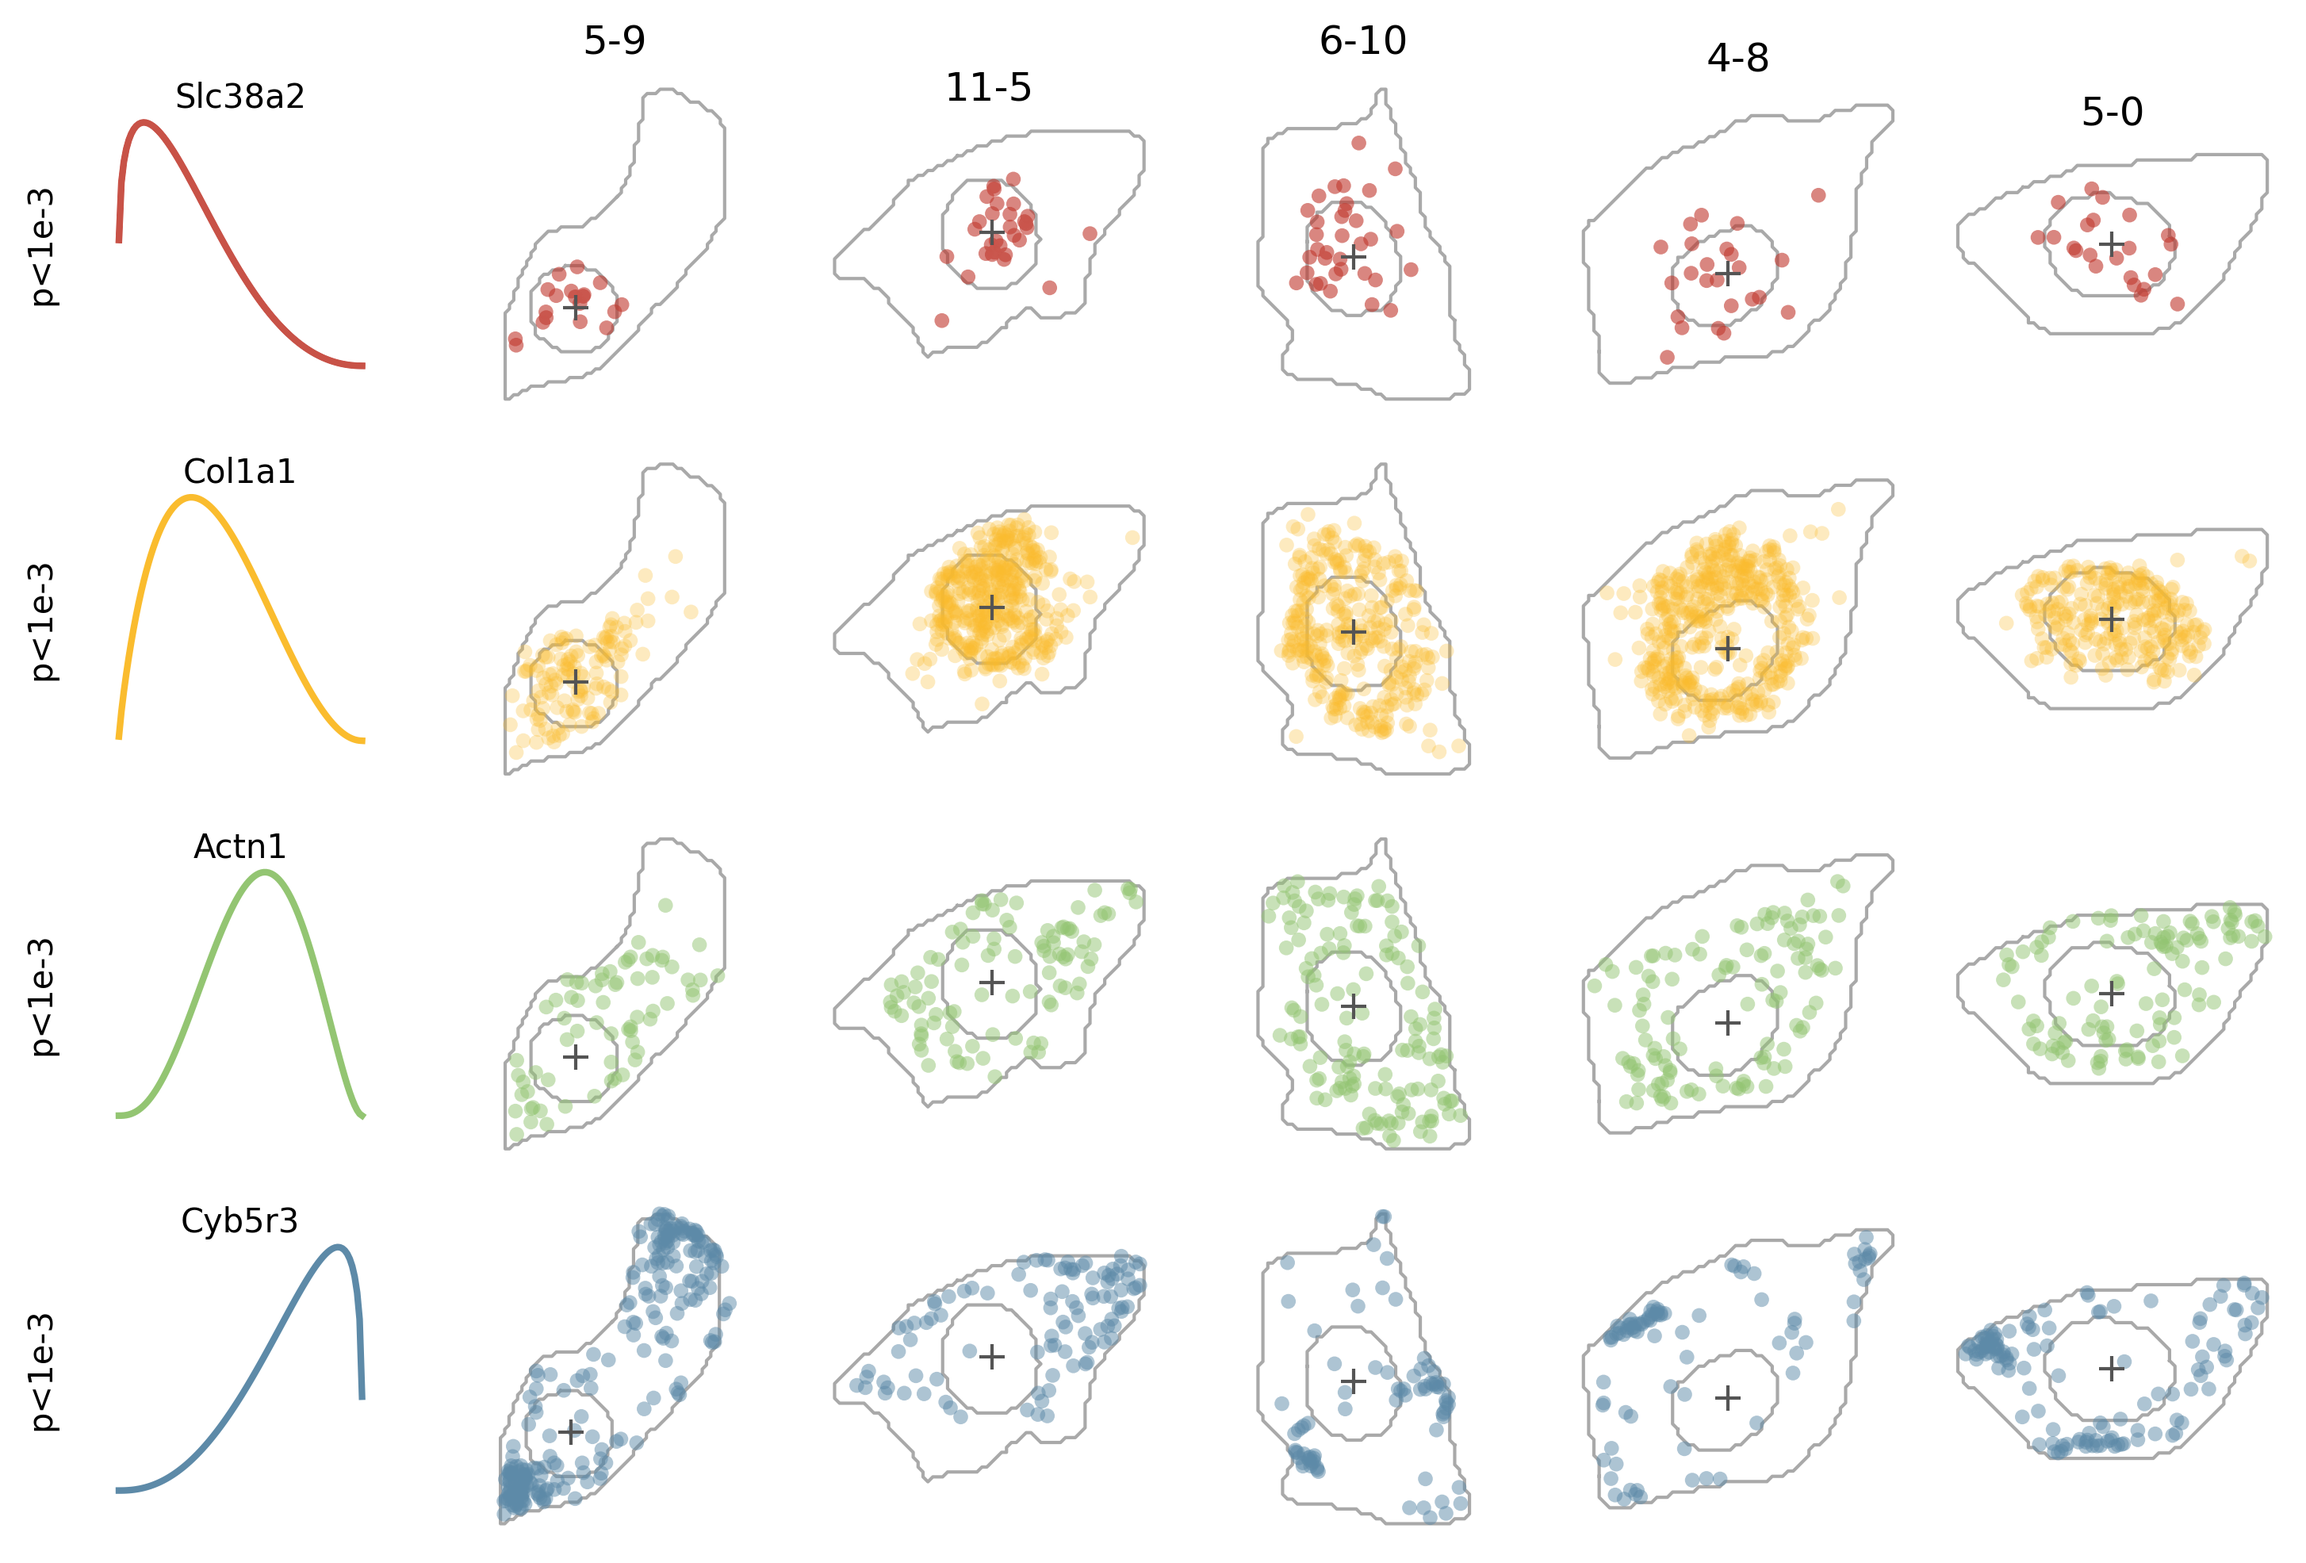
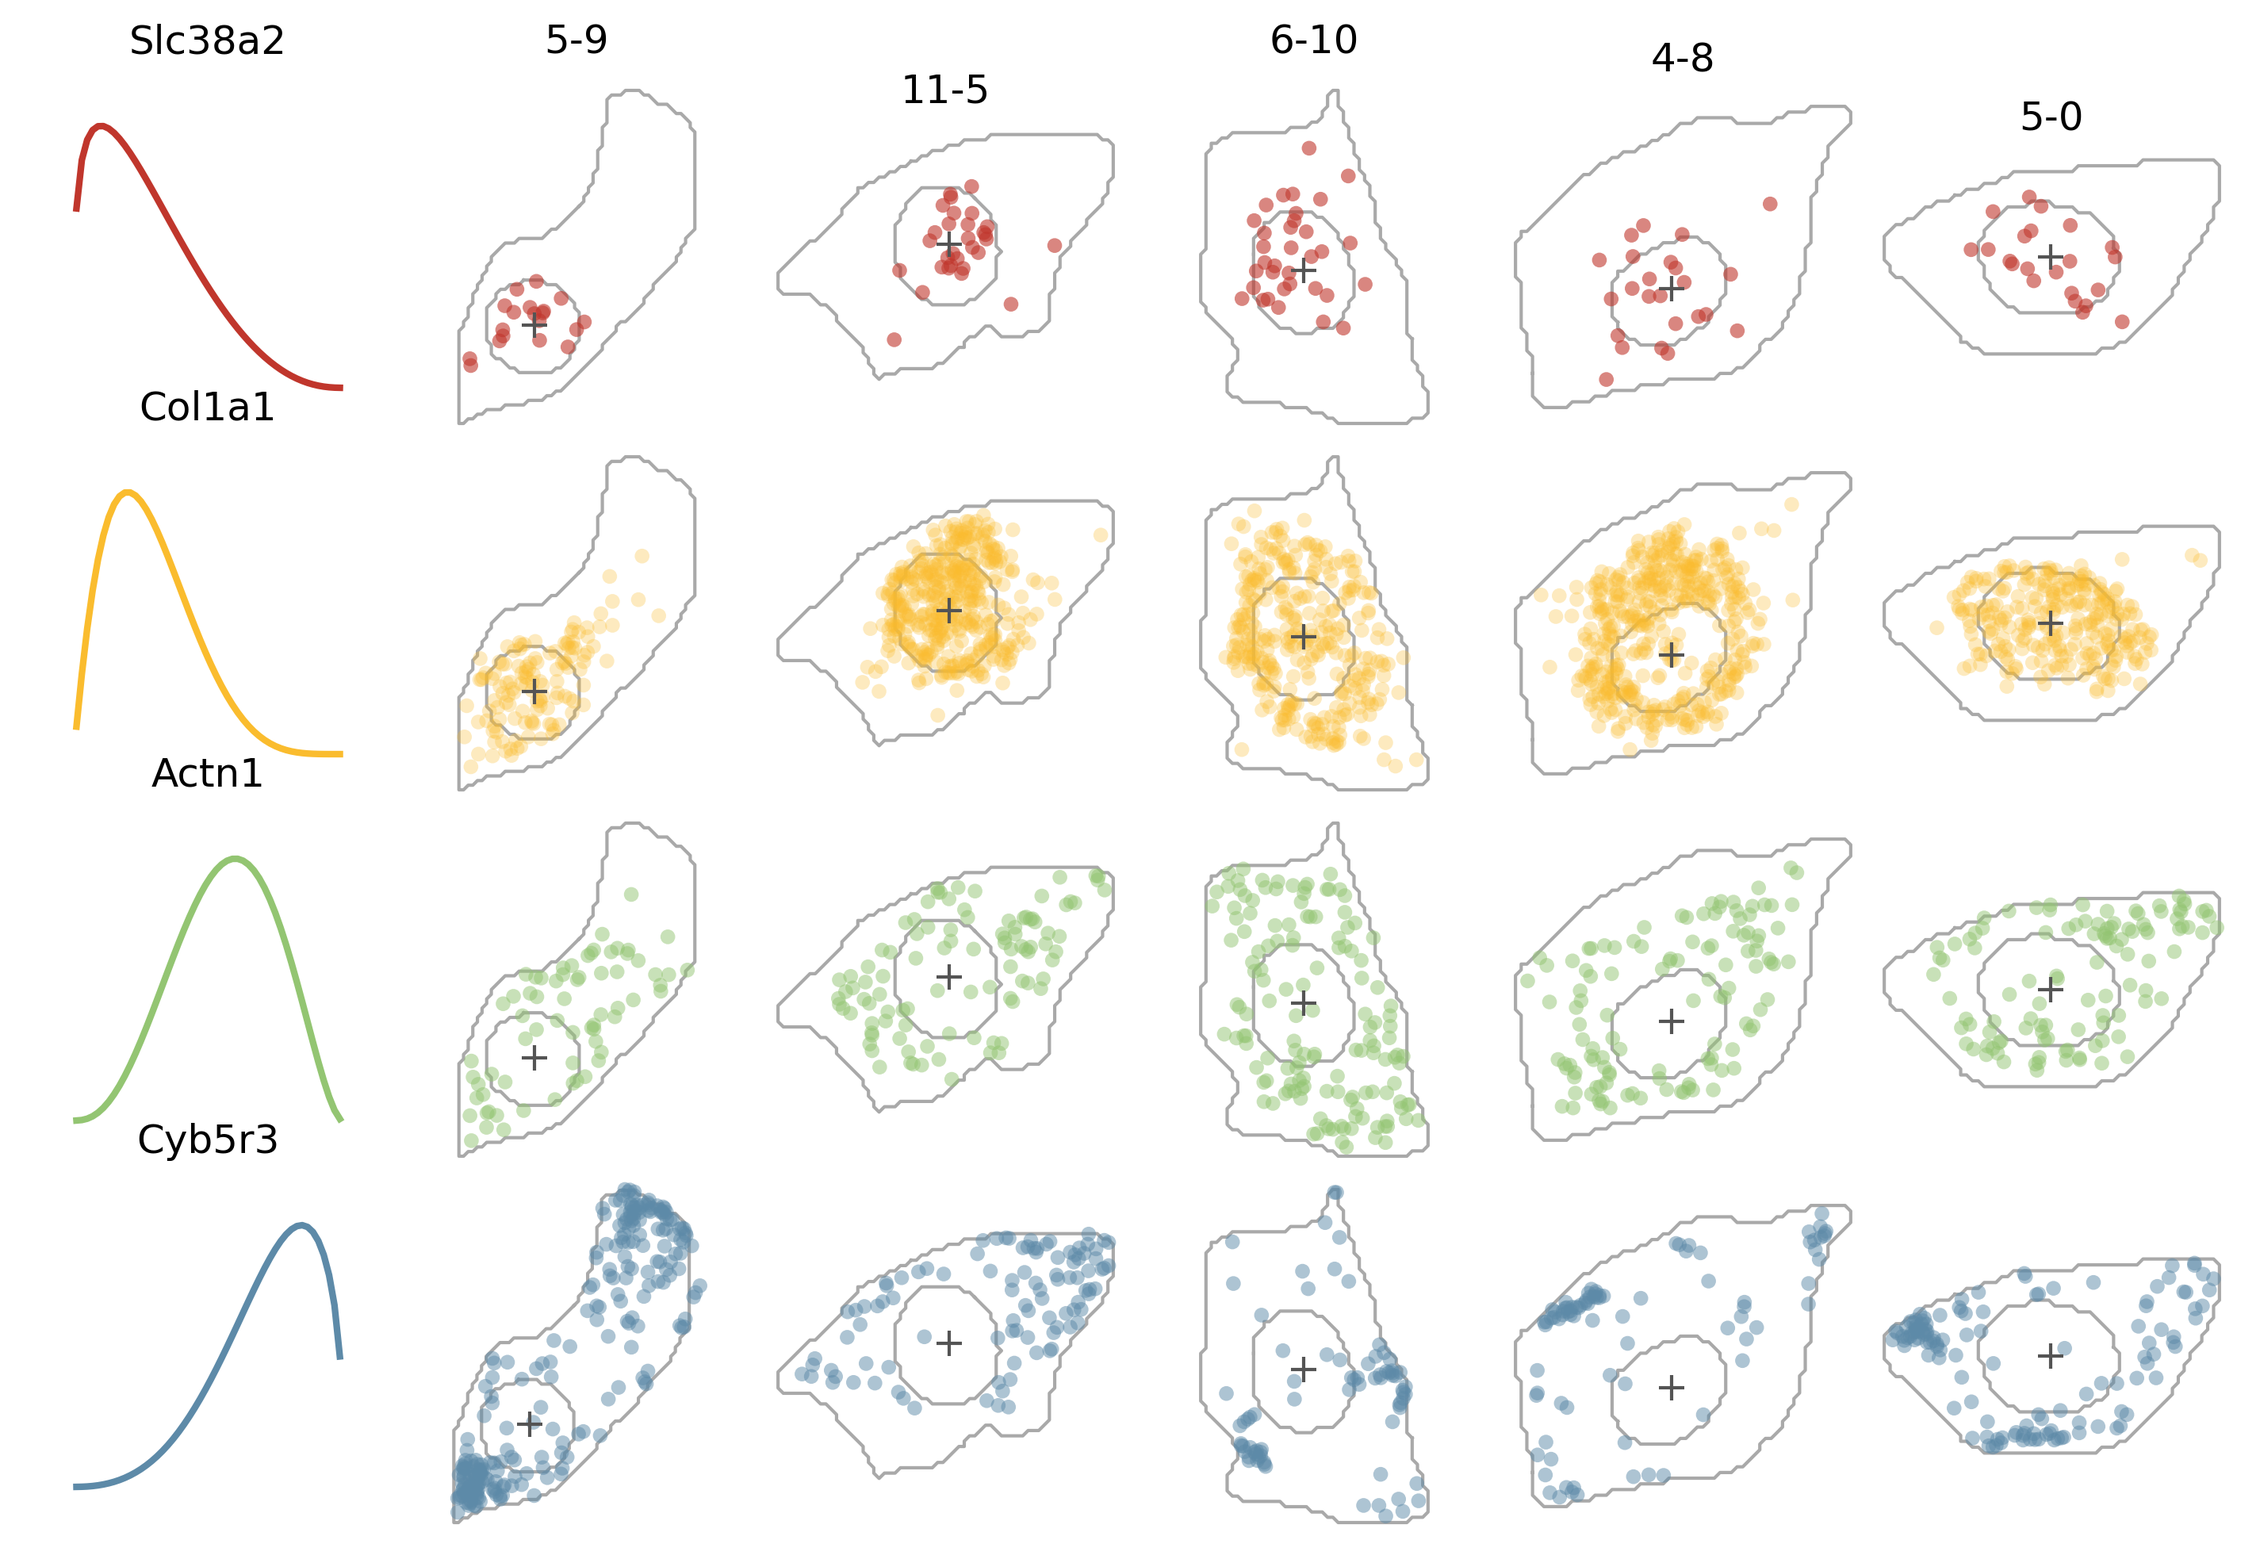
update docs

diff --git a/docs/ella_v1/mini_demo.md b/docs/ella_v1/mini_demo.md
@@ -1,13 +1,15 @@
 ---
 title: A Minimum Demo
 layout: default
+parent: ella_v1
 nav_order: 3
 ---
 
 ## A Minimum Demo
 
 <br>
-Here's a minimum demo to get started with ELLA.
+**Here's a minimum demo to get started with ELLA.**
+<br>
 <br>
 
 ### Install ELLA <br>
@@ -16,44 +18,55 @@ Install ELLA follows the steps in [Install ELLA]({{ site.baseurl }}/install.html
 The script and data that will be used in this demo should have already been downloaded (while cloning the ELLA repo). You should be able to find these at your local ELLA folder:
 ```
 ELLA/scripts/demo/mini_demo/
-├── lightning_logs
-│   └── run1
-├── log
-├── mini_demo_data.pkl
-├── prepared_data
-│   ├── cells_center.json
-│   ├── cells_point_infos.json
-│   ├── cells_polygon.json
-│   └── training_data.jsonl
-└── run1.sh
+├── input
+│   └── mini_demo_data.pkl
+├── output
+│   ├── df_nhpp_prepared.pkl
+│   ├── df_registered.pkl
+│   ├── lam_est.pkl
+│   ├── nhpp_fit_results.pkl
+│   └── pv_est.pkl
+└── mini_demo.ipynb
 ```
 The input data (`input/mini_demo_data.pkl`) mainly contains a dictionary of three dataframes corresponding to gene expression, cell segmentation, and nucleus segmentation (optional). The data contains 5 cells and 4 genes, and its details are explained in [ELLA's Inputs]({{ site.baseurl }}/inputs.html).
 
+The script of this demo is `mini_demo.ipynb`, you should be able to run it locally by yourself (run time around 2min) and you would expected the following steps and outputs:
 
-### ELLA Anlysis <br>
-**1.** We first process the input data. This step includes registering cells (computing relative positions) and restructuring the data for efficient cell-type and gene-level parallelization.
+3. ### ELLA Anlysis <br>
+Data pre-processing
 ```python
-python -m ella.data.prepare_data -i your_dir/mini_demo/mini_demo_data.pkl -o prepared_data
+# import ELLA
+from ELLA.ELLA import model_beta, model_null, loss_ll, ELLA
+ella_demo = ELLA(
+    dataset='demo1', 
+    adam_learning_rate_min=1e-2, 
+    max_iter=1000
+)
+# load data
+ella_demo.load_data(data_path='input/mini_demo_data.pkl')
+# register cells
+ella_demo.register_cells()
+# prepare data for model fitting
+ella_demo.nhpp_prepare() 
 ```
-The outputs including `cells_center.json`, `cells_point_infos.json`, `cells_polygon.json`, and `training_data.jsonl`.
-
-**2a.** We can run one gene on a local machine by first training a ELLA model based a recipe, e.g. configs/ella_run1.yaml
+Model fitting
 ```python
-ella-train --config-name debug
+# fit nhpp model
+ella_demo.nhpp_fit()
 ```
-followd by conduct estimation using
+Testing and estimation
 ```python
-ella-estimate -d lightning_logs/run1 -p "gene_0-kernel_.*" -b 10 -o your_dir/gene_0_estimation_result.json
+# expression intensity estimation
+ella_demo.weighted_density_est()
+# likelihood ratio test
+ella_demo.compute_pv()
 ```
-**2b.** We can run multiple genes in parallel with, for example, `run_demo1.sh` on computing clusters.
-
-
-### Check out ELLA's results <br>
+4. ### Check out ELLA's results <br>
 ```python
 import numpy as np
 import pandas as pd
 import matplotlib.pyplot as plt
-# import alphashape
+import alphashape
 # define colors
 red = '#c0362c'
 lightorange = '#fabc2e'
@@ -61,50 +74,50 @@ lightgreen = '#93c572'
 lightblue = '#5d8aa8'
 darkgray ='#545454'
 colors = [red, lightorange, lightgreen, lightblue]
-
+# cell IDs
+cells = ella_demo.cell_list_dict['fibroblast']
+# gene IDs
+genes = ella_demo.gene_list_dict['fibroblast']
+# FDR corrected p values
+pv = ella_demo.pv_fdr_tl['fibroblast']
+# estimated expression intensities
+lam = ella_demo.weighted_lam_est['fibroblast']
+# demo data
+demo_data = pd.read_pickle('input/demo_data.pkl')
+# cell segmentations
+cell_seg = demo_data['cell_seg']
+# nucleus segmentations
+nucleus_seg = demo_data['nucleus_seg']
+# gene expressions
+expr = demo_data['expr']
+```
+Plot the estimated expression intensities 
+```python
 nr = 1
-nc = 4
+nc = len(genes)
 ss_nr = 1.7
 ss_nc = 2
 fig = plt.figure(figsize=(nc*ss_nc, nr*ss_nr), dpi=300)
 gs = fig.add_gridspec(nr, nc,
-                   width_ratios=[1]*nc,
-                   height_ratios=[1]*nr)
+                      width_ratios=[1]*nc,
+                      height_ratios=[1]*nr)
 gs.update(wspace=0.3, hspace=0.5)
-
-p_cauchy = []
-# for i in range(gene_idx_start, gene_idx_end):
-for i, g in enumerate([3,0,2,1]):
-    path = f'{res_dir}/gene_{g}_estimation_result.json'
-    if os.path.exists(path):
-        with open(path, "r", encoding="utf-8") as f:
-            res = json.load(f)
-            gene_id = res['gene_id']
-            lam_est = res['lam_weighted']
-            p_cauchy.append(res['p_cauchy'])
-            
-            ax = plt.subplot(gs[0,i])
-            ax.set_title(gene_id)
-            lam_std = (lam_est-np.min(lam_est))/(np.max(lam_est)-np.min(lam_est))
-            ax.plot(np.linspace(0,1,len(lam_std)), lam_std, lw=2, color=colors[i])
-            ax.set_xticks([0,0.5,1], [0,0.5,1])
-            ax.set_yticks([0,0.5,1], [0,0.5,1])
-            ax.set_xlabel('Relative Position')
-            if i==0:
-                ax.set_ylabel('Expression Intensity')            
+for i, g in enumerate(genes):
+    ax = plt.subplot(gs[0,i])
+    pv_g = pv[i]
+    lam_g = lam[i]
+    lam_g_std = (lam_g-np.min(lam_g))/(np.max(lam_g)-np.min(lam_g))
+    ax.plot(np.linspace(0,1,len(lam_g_std)), lam_g_std, lw=2, color=colors[i])
+    ax.set_xticks([0,0.5,1], [0,0.5,1])
+    ax.set_yticks([0,0.5,1], [0,0.5,1])
+    ax.set_xlabel('Relative Position')
+    if i==0:
+        ax.set_ylabel('Expression Intensity')
+    if pv_g < 1e-3:
+        ax.set_title(f'{g}\np<1e-3')
+    else:
+        ax.set_title(f'{g}\np={pv_g:.3f}')
 ```
-Compute FDR-corrected P values
-```python
-reject, p_fdr, _, _ = multipletests(p_cauchy, alpha=0.05, method='fdr_by')
-print(np.sum(p_fdr<=0.05))
-print(p_fdr)
-```
-
-```text
-3
-[2.31296463e-16 0.00000000e+00 6.16790569e-16 1.00000000e+00]
-```
-
 <div style="margin: 0 auto; text-align: center;"> 
   <img src="{{ site.baseurl }}/images/demo_lam_est.png" width="600" />
 </div>	
@@ -113,22 +126,10 @@ Here *Slc38a2* looks like a nuclear localized genes as its estimated expression 
 More to plot:
 We can further plot the cells and genes to have a more intuitive sense of the localization patterns.
 ```python
-import alphashape
-
-# load intput data
-input_data = pd.read_pickle('/net/mulan/home/jadewang/revision/real_data/demo1/mini_demo_data.pkl')
-cell_type = 'fibroblast'
-genes = input_data['genes'][cell_type]
-cells = input_data['cells'][cell_type]
-expr = input_data['expr']
-cell_seg = input_data['cell_seg']
-nucleus_seg = input_data['nucleus_seg']
-
-# plot
 alphas = [0.6, 0.3, 0.5, 0.5]
 
 nr = len(genes)
-nc = len(cells)+1
+nc = len(cells)
 ss_nr = 2
 ss_nc = 2
 fig = plt.figure(figsize=(nc*ss_nc, nr*ss_nr), dpi=300)
@@ -137,25 +138,9 @@ gs = fig.add_gridspec(nr, nc,
                       height_ratios=[1]*nr)
 gs.update(wspace=0.0, hspace=0.0)
 
-for j, g in enumerate(genes):
-    for i, c in enumerate(cells):
-        if i==0:
-            ax = plt.subplot(gs[j,i])
-            lam_est = lam_ests[j]
-            lam_std = (lam_est-np.min(lam_est))/(np.max(lam_est)-np.min(lam_est)+1e-10)
-            ax.plot(np.linspace(0,1,len(lam_std)), lam_std, lw=2, color=colors[j])
-            ax.set_title(g)
-            #ax.set_ylabel(f'{p_fdr[j]:.3f}')
-            ax.set_xticks([-0.2,0.5,1.2], [-0.2,0.5,1.2])
-            ax.set_yticks([-0.2,0.5,1.2], [-0.2,0.5,1.2])
-            ax.spines['top'].set_visible(False)
-            ax.spines['right'].set_visible(False)
-            ax.spines['left'].set_visible(False)
-            ax.spines['bottom'].set_visible(False)
-            ax.set_xticks([])
-            ax.set_yticks([])
-        
-        ax = plt.subplot(gs[j,i+1])
+for i, c in enumerate(cells):
+    for j, g in enumerate(genes):
+        ax = plt.subplot(gs[j,i])
 
         cell_seg_c = cell_seg[cell_seg.cell==c]
         nucleus_seg_c = nucleus_seg[nucleus_seg.cell==c]
@@ -209,6 +194,8 @@ for j, g in enumerate(genes):
         
         if j==0:
             ax.set_title(c)
+        if i==0:
+            ax.set_ylabel(g)
 ```
 <div style="margin: 0 auto; text-align: center;"> 
   <img src="{{ site.baseurl }}/images/demo_cells_genes.png" width="600" />

diff --git a/docs/ella_v1/home.md b/docs/ella_v1/home.md
@@ -1,0 +1,32 @@
+---
+title: Home
+layout: home
+parent: ella_v1
+nav_order: 1
+---
+
+<div style="margin: 0 auto; text-align: center;"> 
+  <img src="{{ site.baseurl }}/images/home_logo.png" width="200" />
+</div>
+
+**Welcome to ELLA's page!**
+
+*What's ELLA for?*\
+ELLA (subcellular Expression LocaLization Analysis) is a statistical method that integrates high-resolution spatially resolved gene expression data with histology imaging data to identify the subcellular mRNA localization patterns in various spatially resolved transcriptomic techniques. 
+
+*What's the model?*\
+ELLA models spatial count data through a nonhomogeneous Poisson process model and relies on an expression gradient function to characterize the subcellular mRNA localization pattern, producing effective control of type I errors and yielding high statistical power.
+<div style="margin: 0 auto; text-align: center;"> 
+<img src="{{ site.baseurl }}/images/demo_ella_overview.png" width="600" />
+</div>
+
+*How to try it out?*\
+ELLA is implemented in python with torch. Install ELLA library together with the dependencies follow the steps shown in [Install ELLA]({{ site.baseurl }}/install.html). After intalling ELLA, this [Minimum Demo]({{ site.baseurl }}/mini_demo.html) can be a good start. To take further steps, a complete demo, a showcase of input data, some advanced usages, and the scripts that we used for the real data anlayses in the ELLA manuscript are also shared via this website.
+
+*Report issues.*\
+Please let us know if you encounter any issues or have any suggestions or comments. ELLA appreciates your contributions!
+
+*Cite ELLA.*\
+Jade Wang, Xiang Zhou. ELLA: Modeling the Subcellular  Spatial Variation of Gene Expression within Cells in High-Resolution Spatial Transcriptomics, 2024.
+
+Check out our [Zhou Lab](https://xiangzhou.github.io/) website for more softwares :) 

diff --git a/docs/ella_v1/ella1.md b/docs/ella_v1/ella1.md
@@ -1,0 +1,21 @@
+---
+title: ELLA v1
+layout: default
+nav_order: 9
+---
+
+## ELLA v1
+
+<br>
+**Here's a previous version of ELLA which is based on NHPP instead of Cox process.**
+<br>
+
+code at github repo branch: `ella1`
+
+- [Home]({{ site.baseurl }}/ella_v1/home)
+- [Install ELLA v1]({{ site.baseurl }}/ella_v1/install)
+- [A Minimum Demo]({{ site.baseurl }}/ella_v1/mini_demo)
+- [A Complete Demo]({{ site.baseurl }}/ella_v1/complete_demo)
+- [ELLA's Inputs]({{ site.baseurl }}/ella_v1/inputs)
+- [Advanced Usage]({{ site.baseurl }}/ella_v1/advanced)
+- [Reproducibility]({{ site.baseurl }}/ella_v1/reproduce)

diff --git a/docs/ella_v1/reproduce/reproduce.md b/docs/ella_v1/reproduce/reproduce.md
@@ -1,6 +1,7 @@
 ---
 title: Reproducibility
 layout: default
+parent: ella_v1
 nav_order: 7
 has_children: true
 permalink: docs/reproduce

diff --git a/docs/ella_v1/complete_demo.md b/docs/ella_v1/complete_demo.md
@@ -1,6 +1,7 @@
 ---
 title: A Complete Demo
 layout: default
+parent: ella_v1
 nav_order: 4
 ---
 

diff --git a/docs/ella_v1/advanced.md b/docs/ella_v1/advanced.md
@@ -1,6 +1,7 @@
 ---
 title: Advanced Usage
 layout: default
+parent: ella_v1
 nav_order: 6
 ---
 

diff --git a/docs/ella_v1/inputs.md b/docs/ella_v1/inputs.md
@@ -1,6 +1,7 @@
 ---
 title: ELLA's Inputs
 layout: default
+parent: ella_v1
 nav_order: 5
 ---
 

diff --git a/docs/ella_v1/install.md b/docs/ella_v1/install.md
@@ -1,6 +1,7 @@
 ---
 title: Install ELLA
 layout: default
+parent: ella_v1
 nav_order: 2
 ---
 
